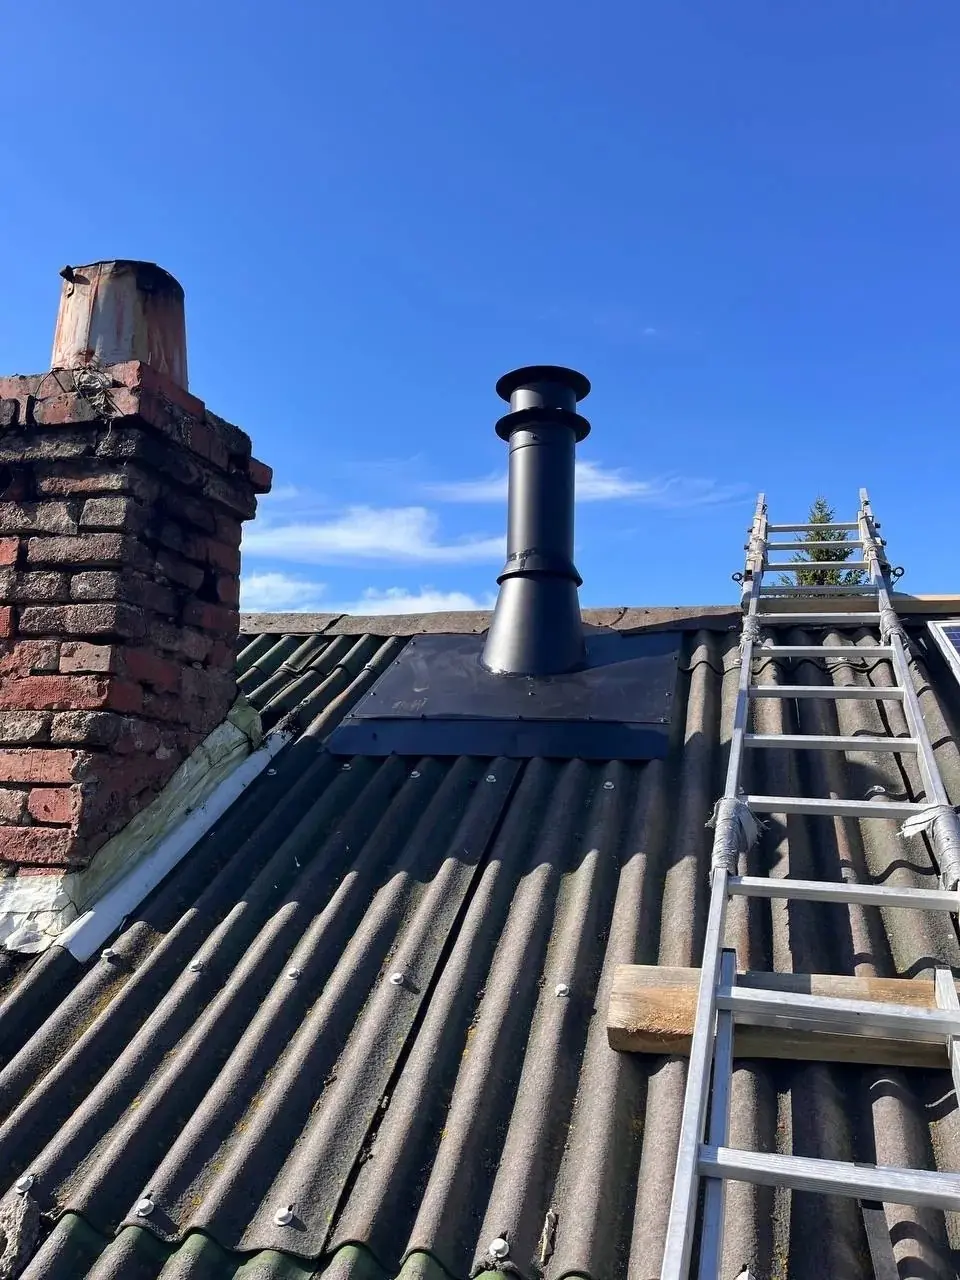
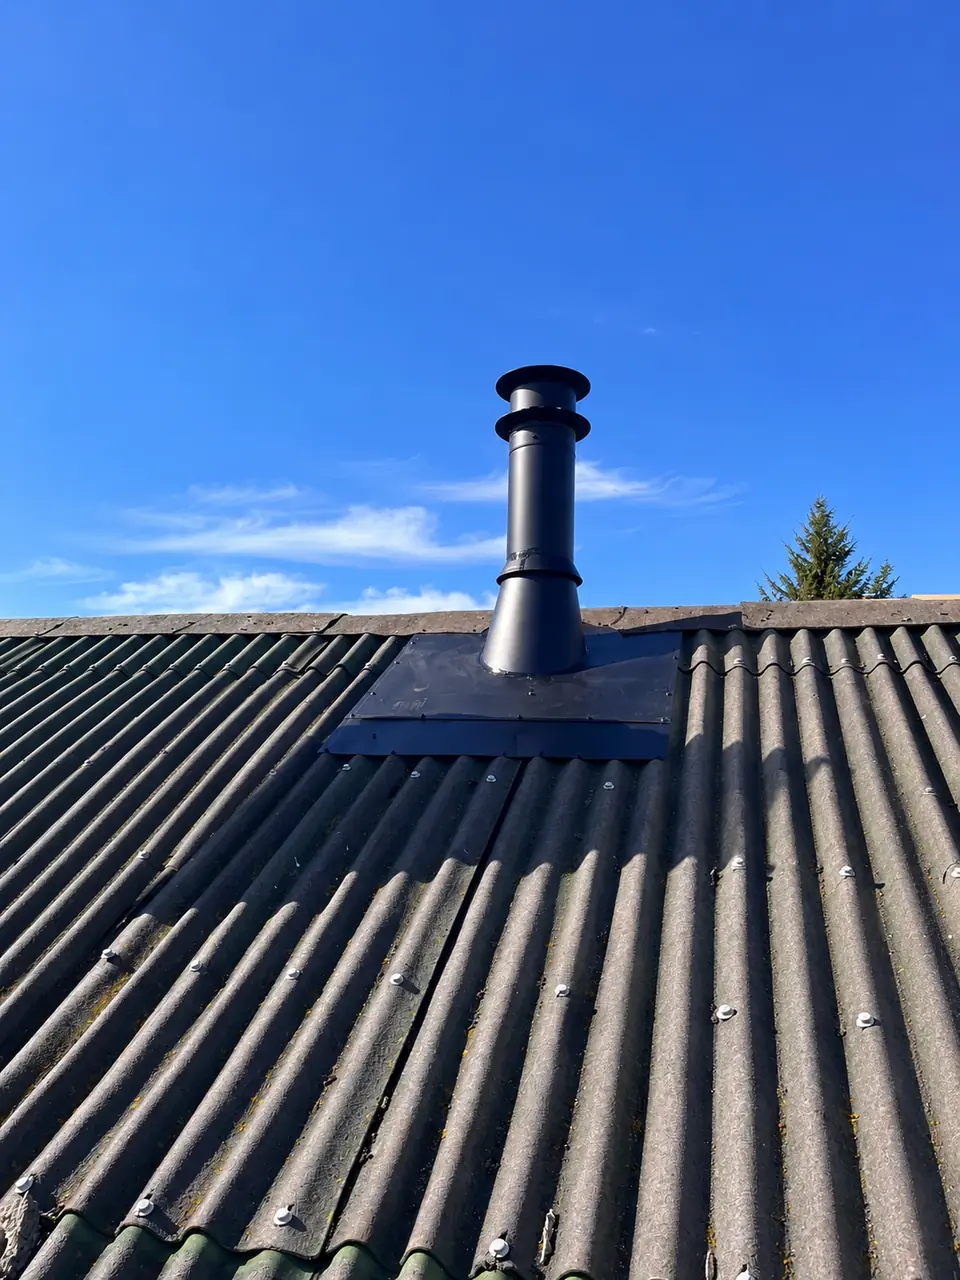
объект 3 - Дымоход для твердотопливного котла

diff --git a/apps/web/components/HomeWorksShowcase.tsx b/apps/web/components/HomeWorksShowcase.tsx
@@ -19,8 +19,10 @@ type WorkObject = {
     title: string;
     description: string;
     specifications: string[];
-    equipmentPrice: string;
-    installationPrice: string;
+    prices: Array<{
+      label: string;
+      value: string;
+    }>;
   };
 };
 
@@ -37,8 +39,10 @@ const workObjects: WorkObject[] = [
         "Нержавеющая сталь AISI 304",
         "Толщина стали 0,8 мм",
       ],
-      equipmentPrice: "97 500 ₽",
-      installationPrice: "35 000 ₽",
+      prices: [
+        { label: "Комплект дымохода", value: "97 500 ₽" },
+        { label: "Монтаж", value: "35 000 ₽" },
+      ],
     },
     photos: [
       { src: "/images/works/object-1/07.webp", alt: "Дымоход на зелёной кровле частного дома" },
@@ -63,6 +67,21 @@ const workObjects: WorkObject[] = [
   },
   {
     id: 3,
+    scenario: "Дымоход для твердотопливного котла",
+    details: {
+      location: "Медное озеро",
+      title: "Дымоход для твердотопливного котла",
+      description: "Монтаж дымохода для твердотопливного котла.",
+      specifications: [
+        "Диаметр 200/300 мм",
+        "Нержавеющая сталь AISI 321",
+        "Толщина стали 0,8 мм",
+      ],
+      prices: [
+        { label: "Комплект дымохода", value: "87 000 ₽" },
+        { label: "Монтаж дымохода", value: "60 000 ₽" },
+      ],
+    },
     photos: [
       { src: "/images/works/object-3/01.webp", alt: "Дом с выведенным над кровлей дымоходом" },
       { src: "/images/works/object-3/02.webp", alt: "Тёмный дымоход на кровле" },
@@ -85,10 +104,24 @@ const workObjects: WorkObject[] = [
   },
   {
     id: 5,
+    scenario: "Дымоход для деревянного дома",
+    details: {
+      location: "Остров Большой Берёзовый",
+      title: "Монтаж дымохода в одноэтажном деревянном доме",
+      description: "Дымоход с порошковой покраской в чёрный цвет.",
+      specifications: ["Печь Everest T6", "Порошковая покраска — чёрный цвет"],
+      prices: [
+        { label: "Комплект дымохода", value: "65 000 ₽" },
+        { label: "Печь Everest T6", value: "62 500 ₽" },
+        {
+          label: "Монтаж с доставкой и расходными материалами",
+          value: "42 000 ₽",
+        },
+      ],
+    },
     photos: [
-      { src: "/images/works/object-5/03.webp", alt: "Дымоход на кровле рядом с кирпичной трубой" },
-      { src: "/images/works/object-5/01.webp", alt: "Печь с дымоходом в готовом интерьере" },
-      { src: "/images/works/object-5/02.webp", alt: "Печь с огнём и вертикальным дымоходом" },
+      { src: "/images/works/object-5/03.webp", alt: "Печь Everest T6 с вертикальным дымоходом" },
+      { src: "/images/works/object-5/02.webp", alt: "Чёрный дымоход на кровле деревянного дома" },
       { src: "/images/works/object-5/04.webp", alt: "Печь и защитный экран на стене" },
       { src: "/images/works/object-5/05.webp", alt: "Установленная у стены печь с дымоходом" },
     ],
@@ -206,14 +239,12 @@ export function HomeWorksShowcase({ objectIds }: { objectIds?: number[] } = {}) 
                 </ul>
               </div>
               <dl className={styles.objectPrices}>
-                <div>
-                  <dt>Комплект дымохода</dt>
-                  <dd>{activeObject.details.equipmentPrice}</dd>
-                </div>
-                <div>
-                  <dt>Монтаж</dt>
-                  <dd>{activeObject.details.installationPrice}</dd>
-                </div>
+                {activeObject.details.prices.map((price) => (
+                  <div key={price.label}>
+                    <dt>{price.label}</dt>
+                    <dd>{price.value}</dd>
+                  </div>
+                ))}
               </dl>
             </section>
           ) : null}

diff --git a/apps/web/components/HomeWorksShowcase.module.css b/apps/web/components/HomeWorksShowcase.module.css
@@ -148,6 +148,100 @@
   font-variant-numeric: tabular-nums;
 }
 
+.objectDetails {
+  display: grid;
+  grid-template-columns: minmax(0, 1fr) minmax(240px, 0.46fr);
+  gap: 32px;
+  padding: 26px 28px;
+  border-top: 1px solid #415860;
+  color: #eef4f5;
+  background: #17313b;
+}
+
+.objectDescription h3 {
+  max-width: 760px;
+  margin: 4px 0 10px;
+  font-family: var(--font-heading);
+  font-size: clamp(22px, 2.6vw, 32px);
+  line-height: 1.08;
+  text-wrap: balance;
+}
+
+.objectDescription > p:last-of-type {
+  max-width: 720px;
+  margin: 0;
+  color: #bfd0d5;
+  font-size: 14px;
+  line-height: 1.55;
+  text-wrap: pretty;
+}
+
+.objectLocation {
+  margin: 0;
+  color: #ff8a61;
+  font-size: 12px;
+  font-weight: 750;
+}
+
+.objectDescription ul {
+  display: flex;
+  flex-wrap: wrap;
+  gap: 8px 20px;
+  margin: 18px 0 0;
+  padding: 14px 0 0;
+  border-top: 1px solid #415860;
+  list-style: none;
+}
+
+.objectDescription li {
+  position: relative;
+  padding-left: 14px;
+  color: #dce7e9;
+  font-size: 13px;
+  line-height: 1.4;
+}
+
+.objectDescription li::before {
+  position: absolute;
+  top: 0.58em;
+  left: 0;
+  width: 4px;
+  height: 4px;
+  border-radius: 50%;
+  background: #ed5b2a;
+  content: "";
+}
+
+.objectPrices {
+  display: grid;
+  align-content: start;
+  margin: 0;
+  border-top: 1px solid #50656c;
+}
+
+.objectPrices div {
+  display: grid;
+  grid-template-columns: minmax(0, 1fr) auto;
+  gap: 12px;
+  align-items: baseline;
+  padding: 15px 0;
+  border-bottom: 1px solid #50656c;
+}
+
+.objectPrices dt {
+  color: #bfd0d5;
+  font-size: 12px;
+}
+
+.objectPrices dd {
+  margin: 0;
+  color: #fff;
+  font-size: 19px;
+  font-weight: 760;
+  font-variant-numeric: tabular-nums;
+  white-space: nowrap;
+}
+
 .openLabel {
   display: inline-flex;
   gap: 8px;
@@ -303,6 +397,10 @@
   .stage {
     min-height: 500px;
   }
+
+  .objectDetails {
+    grid-template-columns: minmax(0, 1fr) minmax(220px, 0.5fr);
+  }
 }
 
 @media (max-width: 620px) {
@@ -318,6 +416,16 @@
 
   .stageCaption strong {
     font-size: 19px;
+  }
+
+  .objectDetails {
+    grid-template-columns: 1fr;
+    gap: 22px;
+    padding: 22px 18px;
+  }
+
+  .objectDescription ul {
+    display: grid;
   }
 
   .openLabel {
